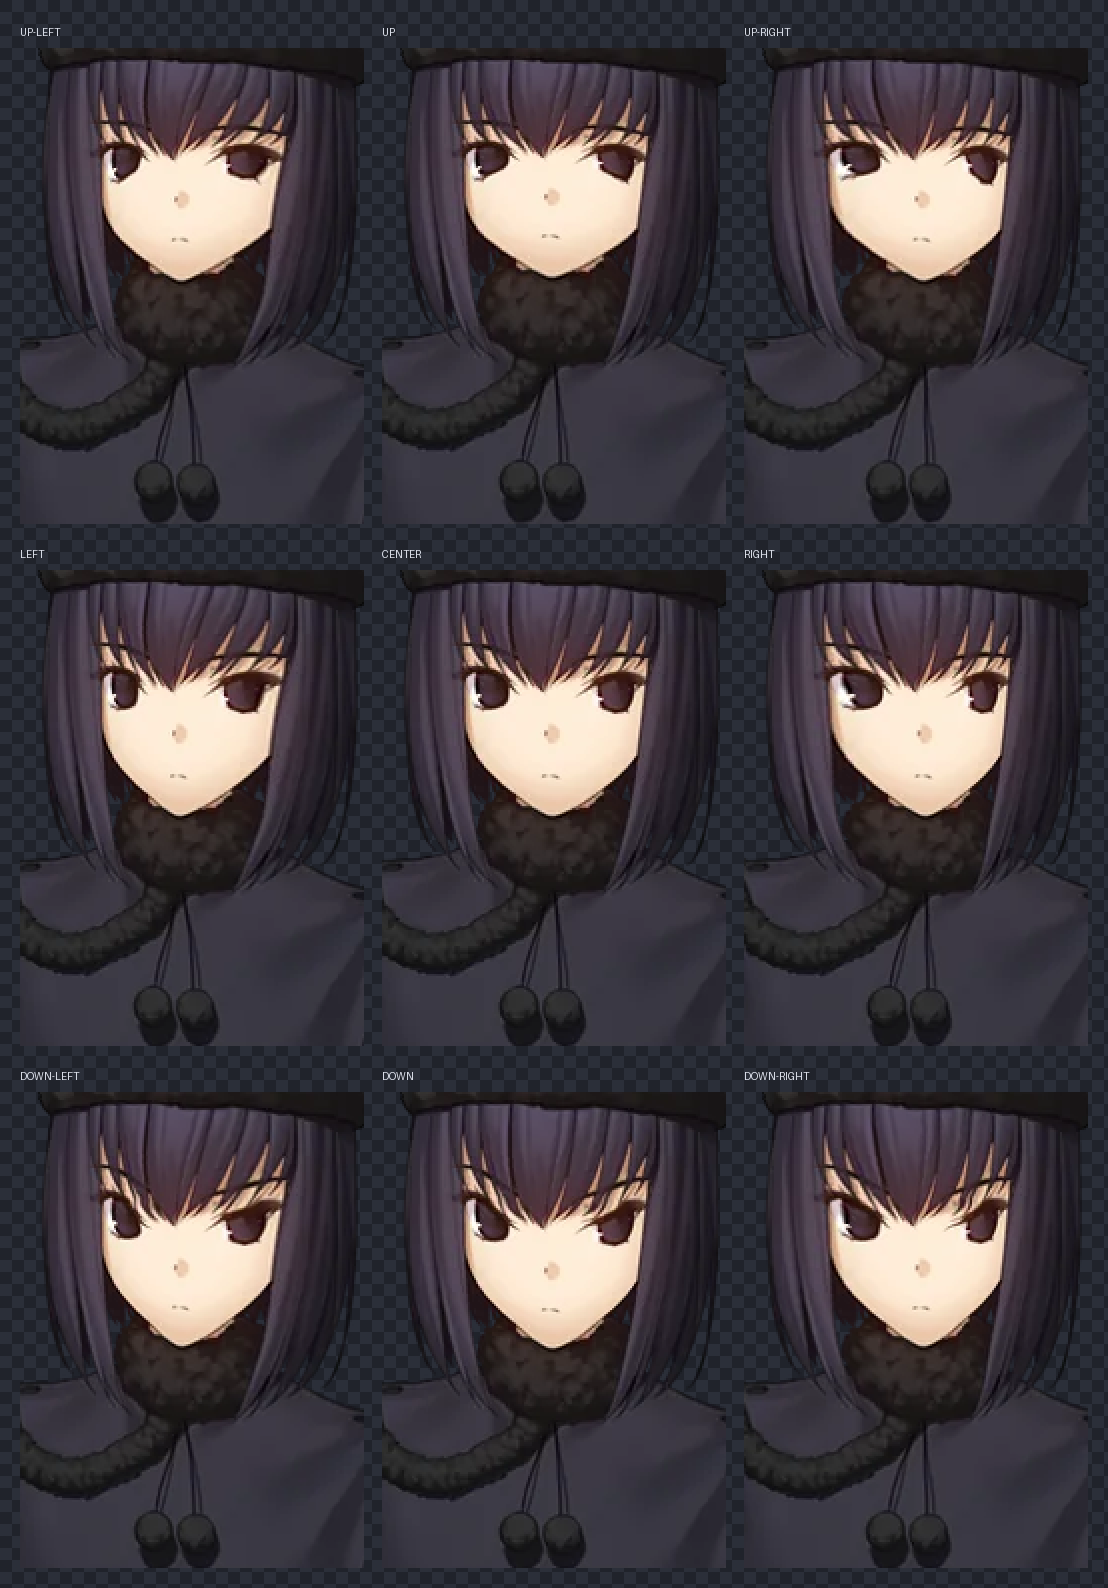
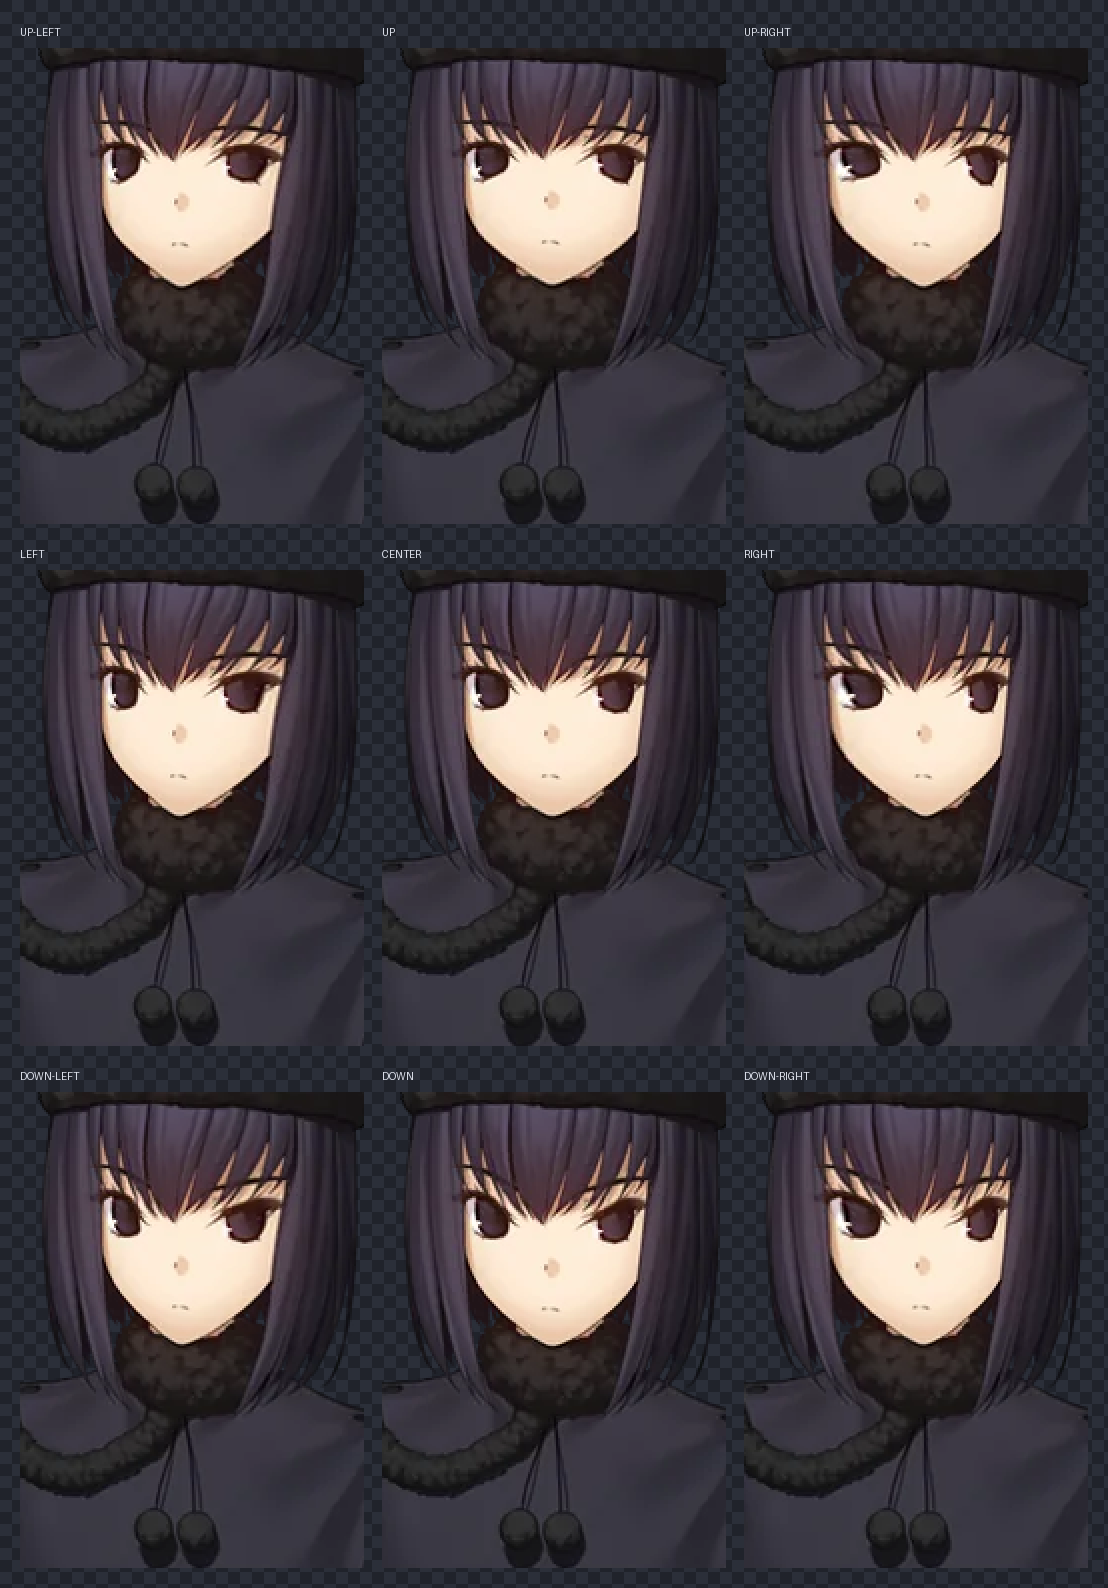
fix: 重做桌宠上下注视避免脸部变形

diff --git a/tests/pet.test.js b/tests/pet.test.js
@@ -270,8 +270,10 @@ test('鼠标转向试验帧采用局部语义变形并保留透明边缘', () =>
   assert.ok(script.includes('desired_shift = 4.6 * horizontal'), '脸部偏转必须达到肉眼可辨识的幅度');
   assert.ok(script.includes('move_x=1.75 * horizontal'), '眼神应明显领先脸部转向');
   assert.ok(script.includes('add_face_pitch'), '上下方向应使用独立的脸部俯仰透视');
-  assert.ok(script.includes('desired_shift = 6.6 * vertical'), '上下方向必须达到实际桌宠尺寸下肉眼可辨识的幅度');
-  assert.ok(script.includes('move_y=2.6 * vertical'), '上下眼神应额外领先脸部俯仰');
+  assert.ok(script.includes('face_pitch_shift = 5.4 * vertical'), '上下方向必须达到实际桌宠尺寸下肉眼可辨识的幅度');
+  assert.ok(script.includes('move_y=1.5 * vertical'), '上下眼神应额外领先脸部俯仰');
+  assert.ok(!script.includes('vertical_scale'), '上下俯仰不应压扁或拉长脸部和身体');
+  assert.ok(!script.includes('add_body_pitch'), '上下俯仰不应拉伸披风冒充身体动作');
   assert.ok(script.includes('add_body_yaw'), '身体应使用绕竖轴的局部透视，而不是整体倾斜');
   assert.ok(script.includes('right_move = 0.9 * horizontal - 0.55 * abs(horizontal)'), '远侧肩线应有可辨识的透视内收');
   assert.ok(!script.includes('left_shoulder, move_y=') && !script.includes('right_shoulder, move_y='), '身体转向不应制造高低肩');

diff --git a/scripts/make-pet-look-pilot.py b/scripts/make-pet-look-pilot.py
@@ -55,15 +55,13 @@ def add_face_yaw(dx, xx, yy, horizontal):
 
 
 def add_face_pitch(dy, xx, yy, vertical):
-    """在头部轮廓内改变五官纵向透视，形成抬头或低头。"""
+    """在脸内平移五官形成俯仰，不改变脸长或脸宽。"""
     if vertical == 0:
         return
     cx, cy = 178.0, 169.0
     region = soft_ellipse(xx, yy, cx, cy, 55.0, 77.0, 1.15)
-    desired_shift = 6.6 * vertical
-    vertical_scale = 1.0 - 0.05 * abs(vertical)
-    inverse_offset = (yy - cy - desired_shift) / vertical_scale - (yy - cy)
-    dy += inverse_offset * region
+    face_pitch_shift = 5.4 * vertical
+    dy -= face_pitch_shift * region
 
 
 def add_body_yaw(dx, xx, yy, horizontal):
@@ -76,18 +74,6 @@ def add_body_yaw(dx, xx, yy, horizontal):
     horizontal_scale = 1.0 - 0.018 * abs(horizontal)
     inverse_offset = (xx - cx - desired_shift) / horizontal_scale - (xx - cx)
     dx += inverse_offset * region
-
-
-def add_body_pitch(dy, xx, yy, vertical):
-    """只让衣领附近顺着上下视线轻微收放，下摆保持固定。"""
-    if vertical == 0:
-        return
-    cx, cy = 178.0, 300.0
-    region = soft_ellipse(xx, yy, cx, cy, 150.0, 112.0, 1.35)
-    desired_shift = 0.9 * vertical
-    vertical_scale = 1.0 - 0.012 * abs(vertical)
-    inverse_offset = (yy - cy - desired_shift) / vertical_scale - (yy - cy)
-    dy += inverse_offset * region
 
 
 def warp_rgba_premultiplied(image, dx, dy):
@@ -132,21 +118,20 @@ def make_look(source, horizontal, vertical):
     # 眼神比脸先多走一点，鼻尖和嘴只跟随半步，避免五官像贴纸般一起滑动。
     for eye_x in (151.0, 204.0):
         eye = soft_ellipse(xx, yy, eye_x, 153.0, 14.0, 10.0, 1.4)
-        add_shift(dx, dy, xx, yy, eye, move_x=1.75 * horizontal, move_y=2.6 * vertical)
+        add_shift(dx, dy, xx, yy, eye, move_x=1.75 * horizontal, move_y=1.5 * vertical)
     nose_mouth = soft_ellipse(xx, yy, 178.0, 184.0, 24.0, 28.0, 1.3)
-    add_shift(dx, dy, xx, yy, nose_mouth, move_x=0.85 * horizontal, move_y=1.25 * vertical)
+    add_shift(dx, dy, xx, yy, nose_mouth, move_x=0.85 * horizontal, move_y=0.75 * vertical)
 
     # 刘海内层产生小于一像素的视差，外轮廓保持稳定。
     inner_hair = soft_ellipse(xx, yy, 178.0, 125.0, 50.0, 36.0, 1.7)
-    add_shift(dx, dy, xx, yy, inner_hair, move_x=1.0 * horizontal, move_y=0.9 * vertical)
+    add_shift(dx, dy, xx, yy, inner_hair, move_x=1.0 * horizontal, move_y=0.45 * vertical)
 
     # 颈部、衣领与披风上半部跟随左转；位移在腰部前完全衰减。
     neck = soft_ellipse(xx, yy, 178.0, 238.0, 48.0, 42.0, 1.2)
-    add_shift(dx, dy, xx, yy, neck, move_x=2.1 * horizontal, move_y=2.0 * vertical)
+    add_shift(dx, dy, xx, yy, neck, move_x=2.1 * horizontal, move_y=0.8 * vertical)
     collar_and_pendants = soft_ellipse(xx, yy, 178.0, 272.0, 92.0, 70.0, 1.3)
-    add_shift(dx, dy, xx, yy, collar_and_pendants, move_x=1.35 * horizontal, move_y=1.15 * vertical)
+    add_shift(dx, dy, xx, yy, collar_and_pendants, move_x=1.35 * horizontal, move_y=0.35 * vertical)
     add_body_yaw(dx, xx, yy, horizontal)
-    add_body_pitch(dy, xx, yy, vertical)
 
     # 远侧肩膀向内收，近侧肩膀只跟随半步；不再制造高低肩。
     left_shoulder = soft_ellipse(xx, yy, 91.0, 278.0, 73.0, 52.0, 1.45)
